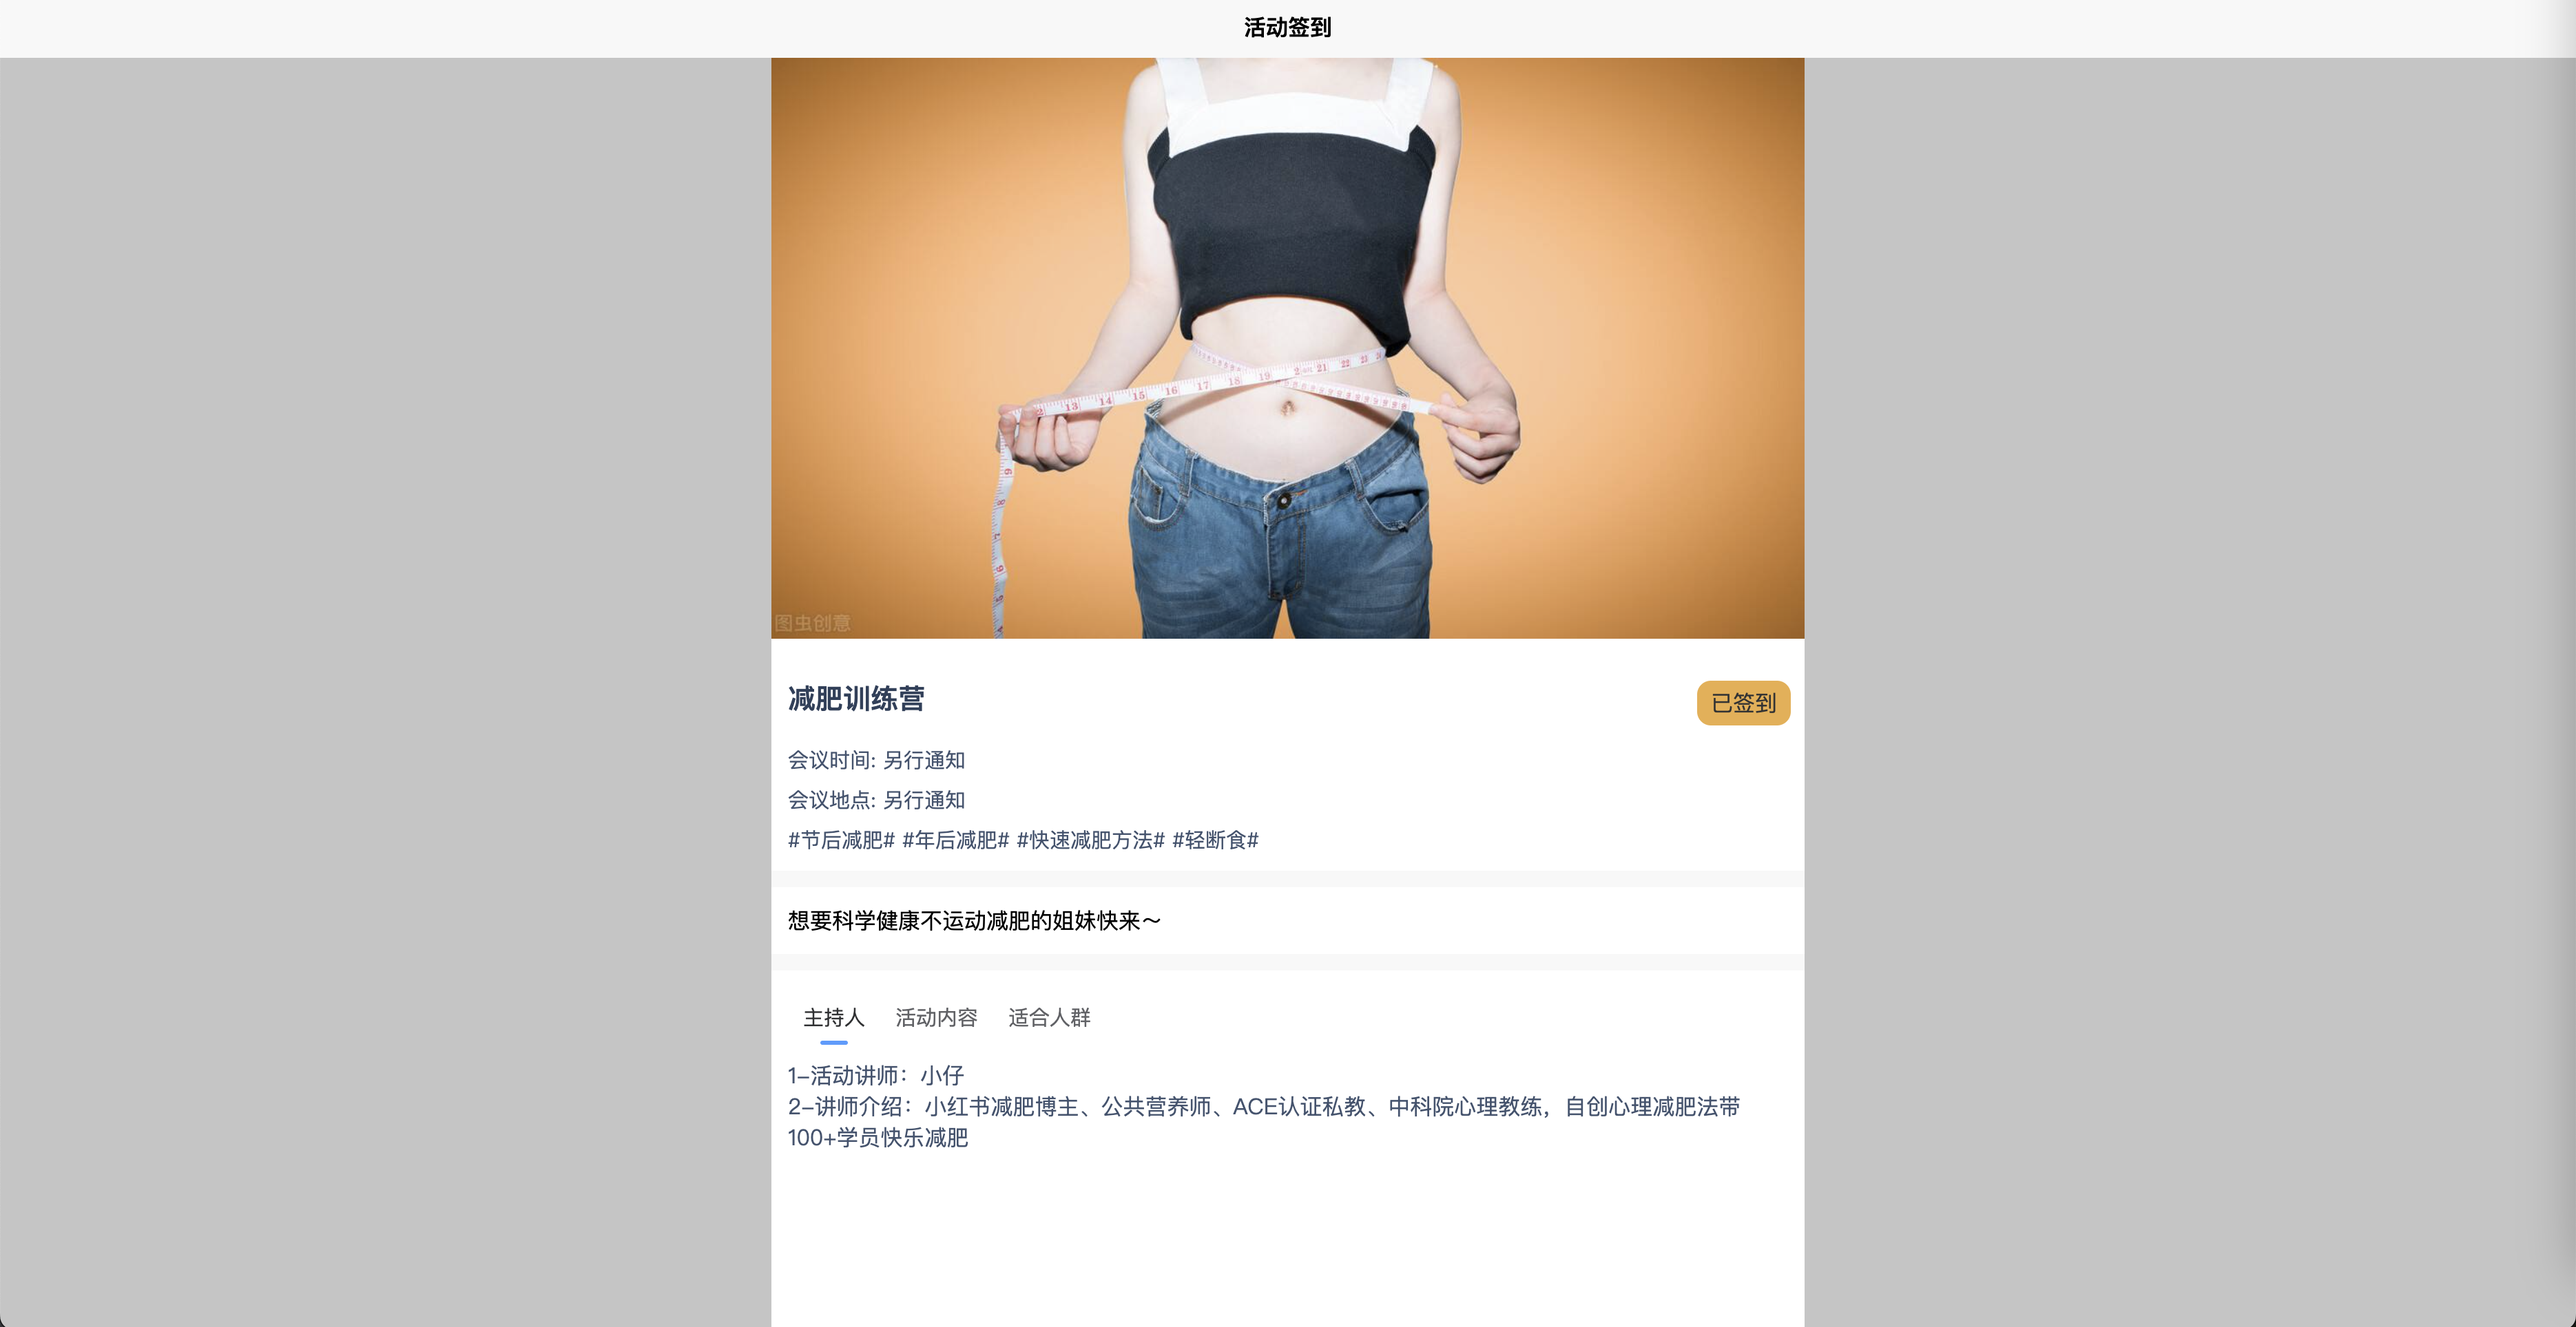
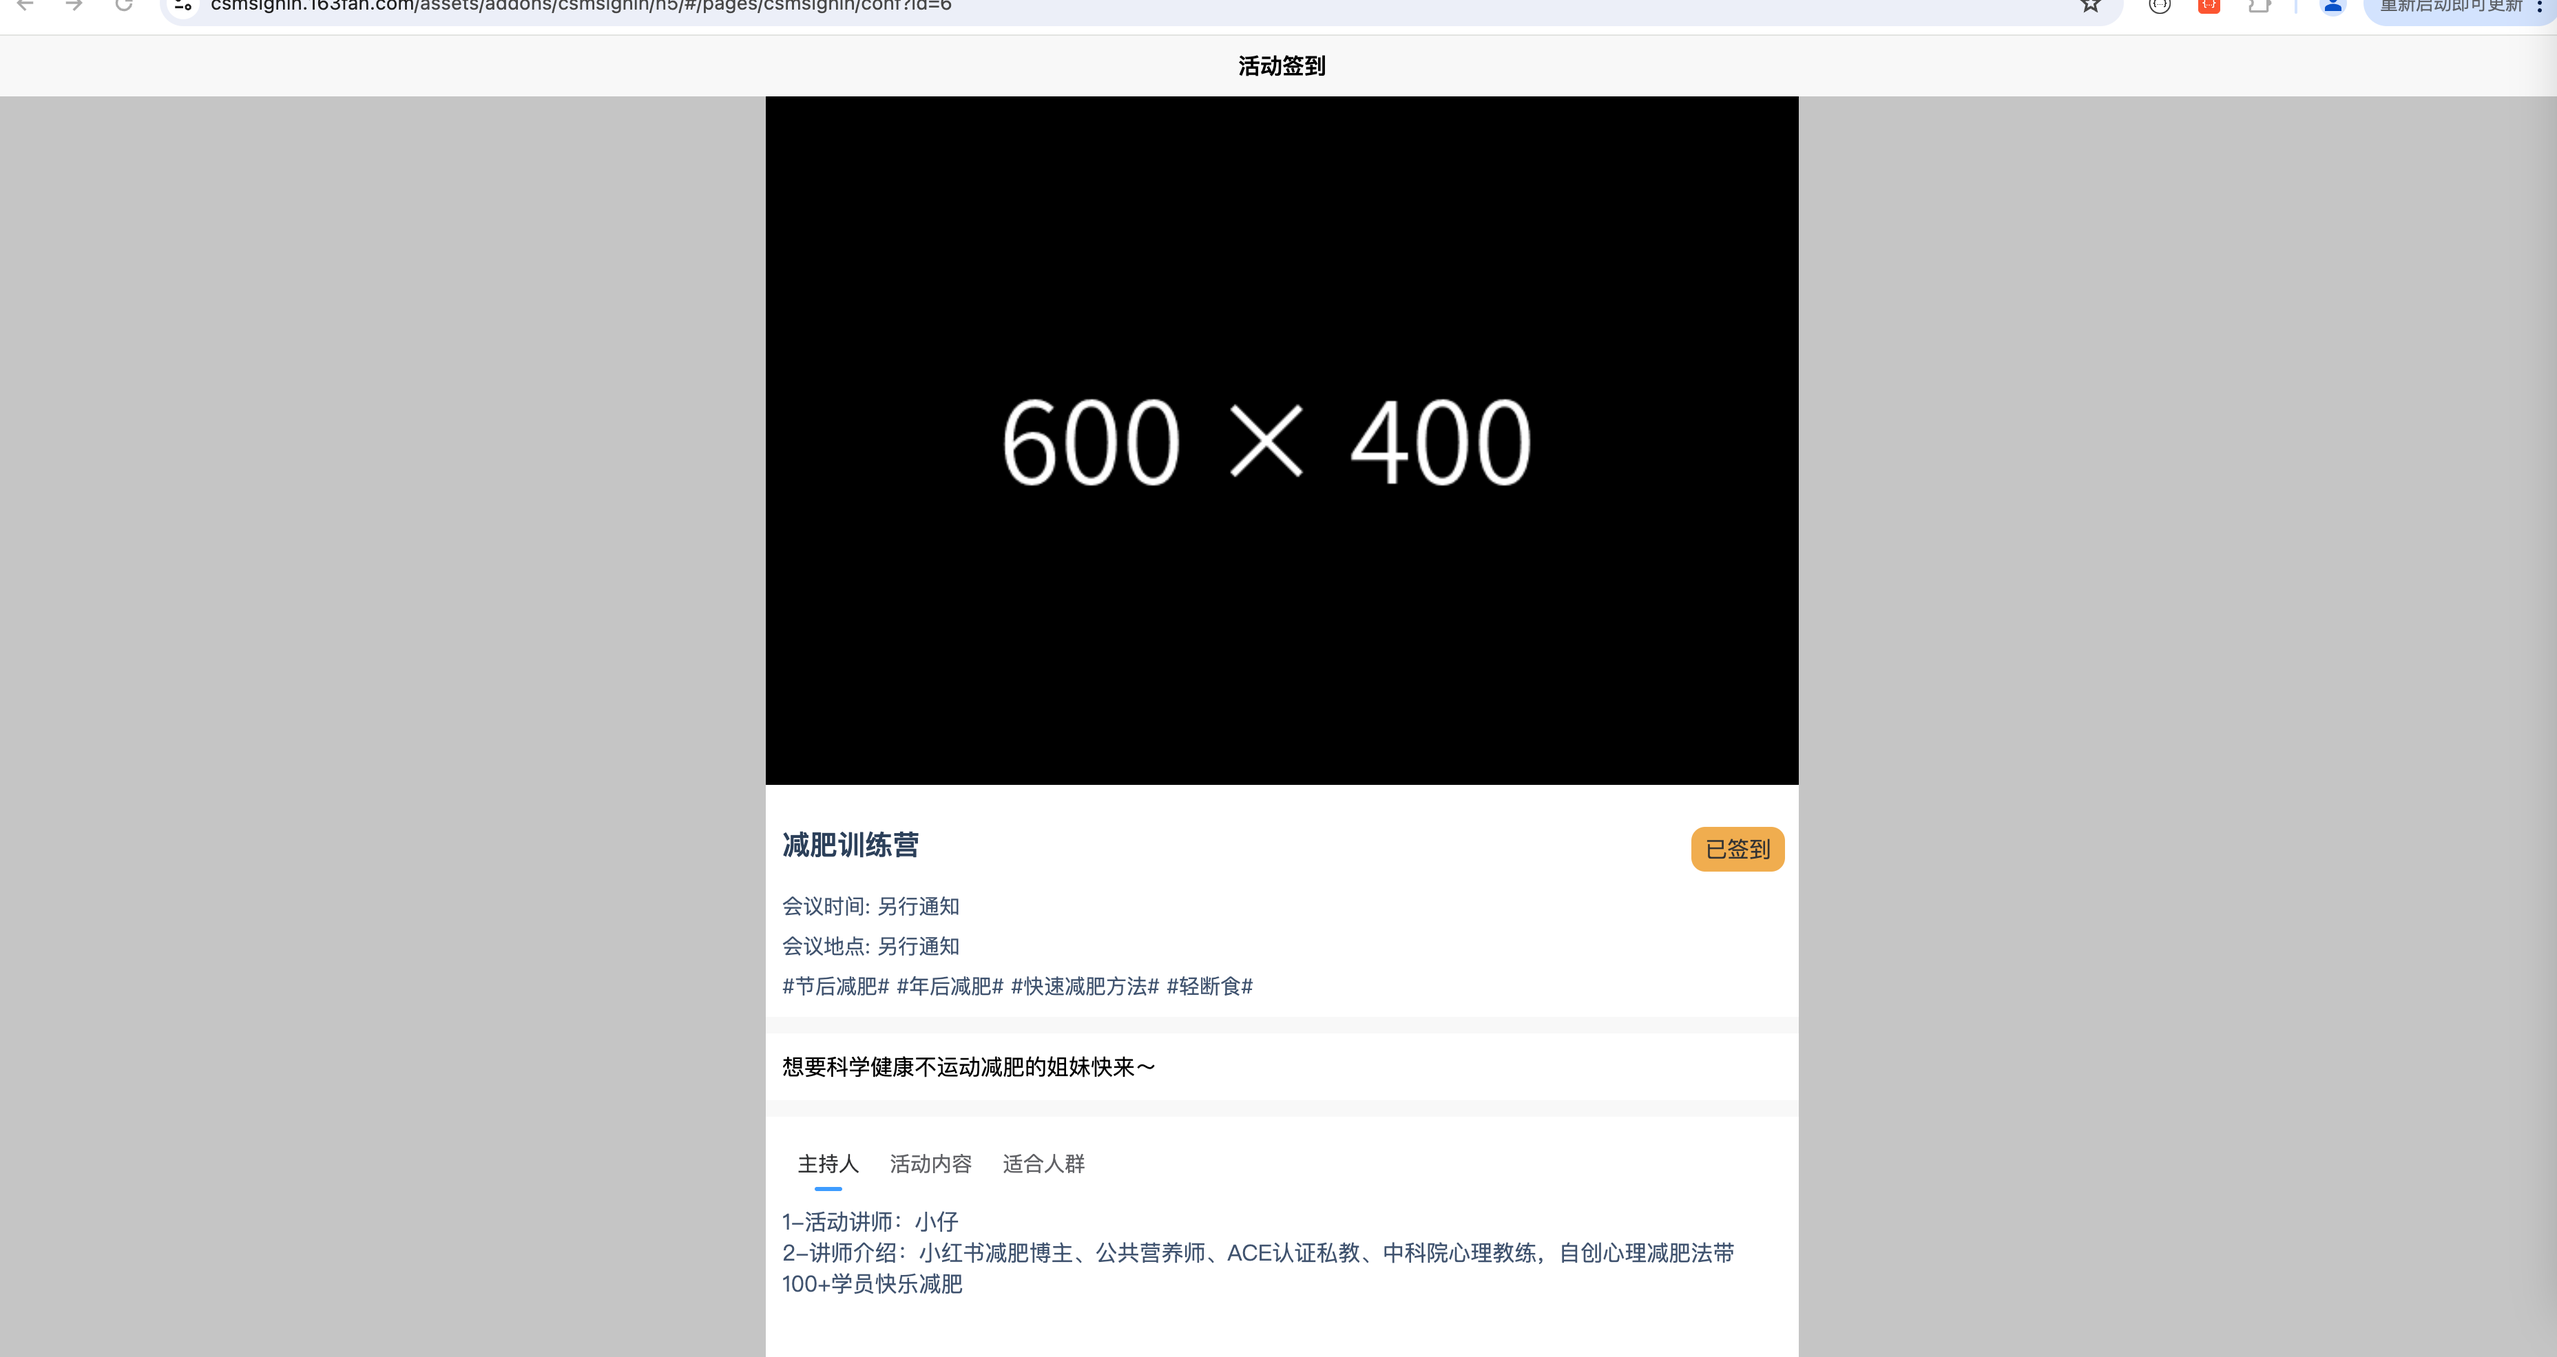
更新介绍图片

Changed region(s): [[0.0, 0.0, 1.0, 0.9647], [0.9997, 0.9647, 1.0, 1.0]]

diff --git a/README.md b/README.md
@@ -13,7 +13,7 @@ https://csmsignin.163fan.com/abc.php
 
 ## 界面截图
 ![页面一](docs/images/software/pc_index_home.png)
-![页面二](docs/images/software/pc_cosole_home.jpg)
+![页面二](docs/images/software/pc_cosole_home.png)
 
 
 ## 功能清单
